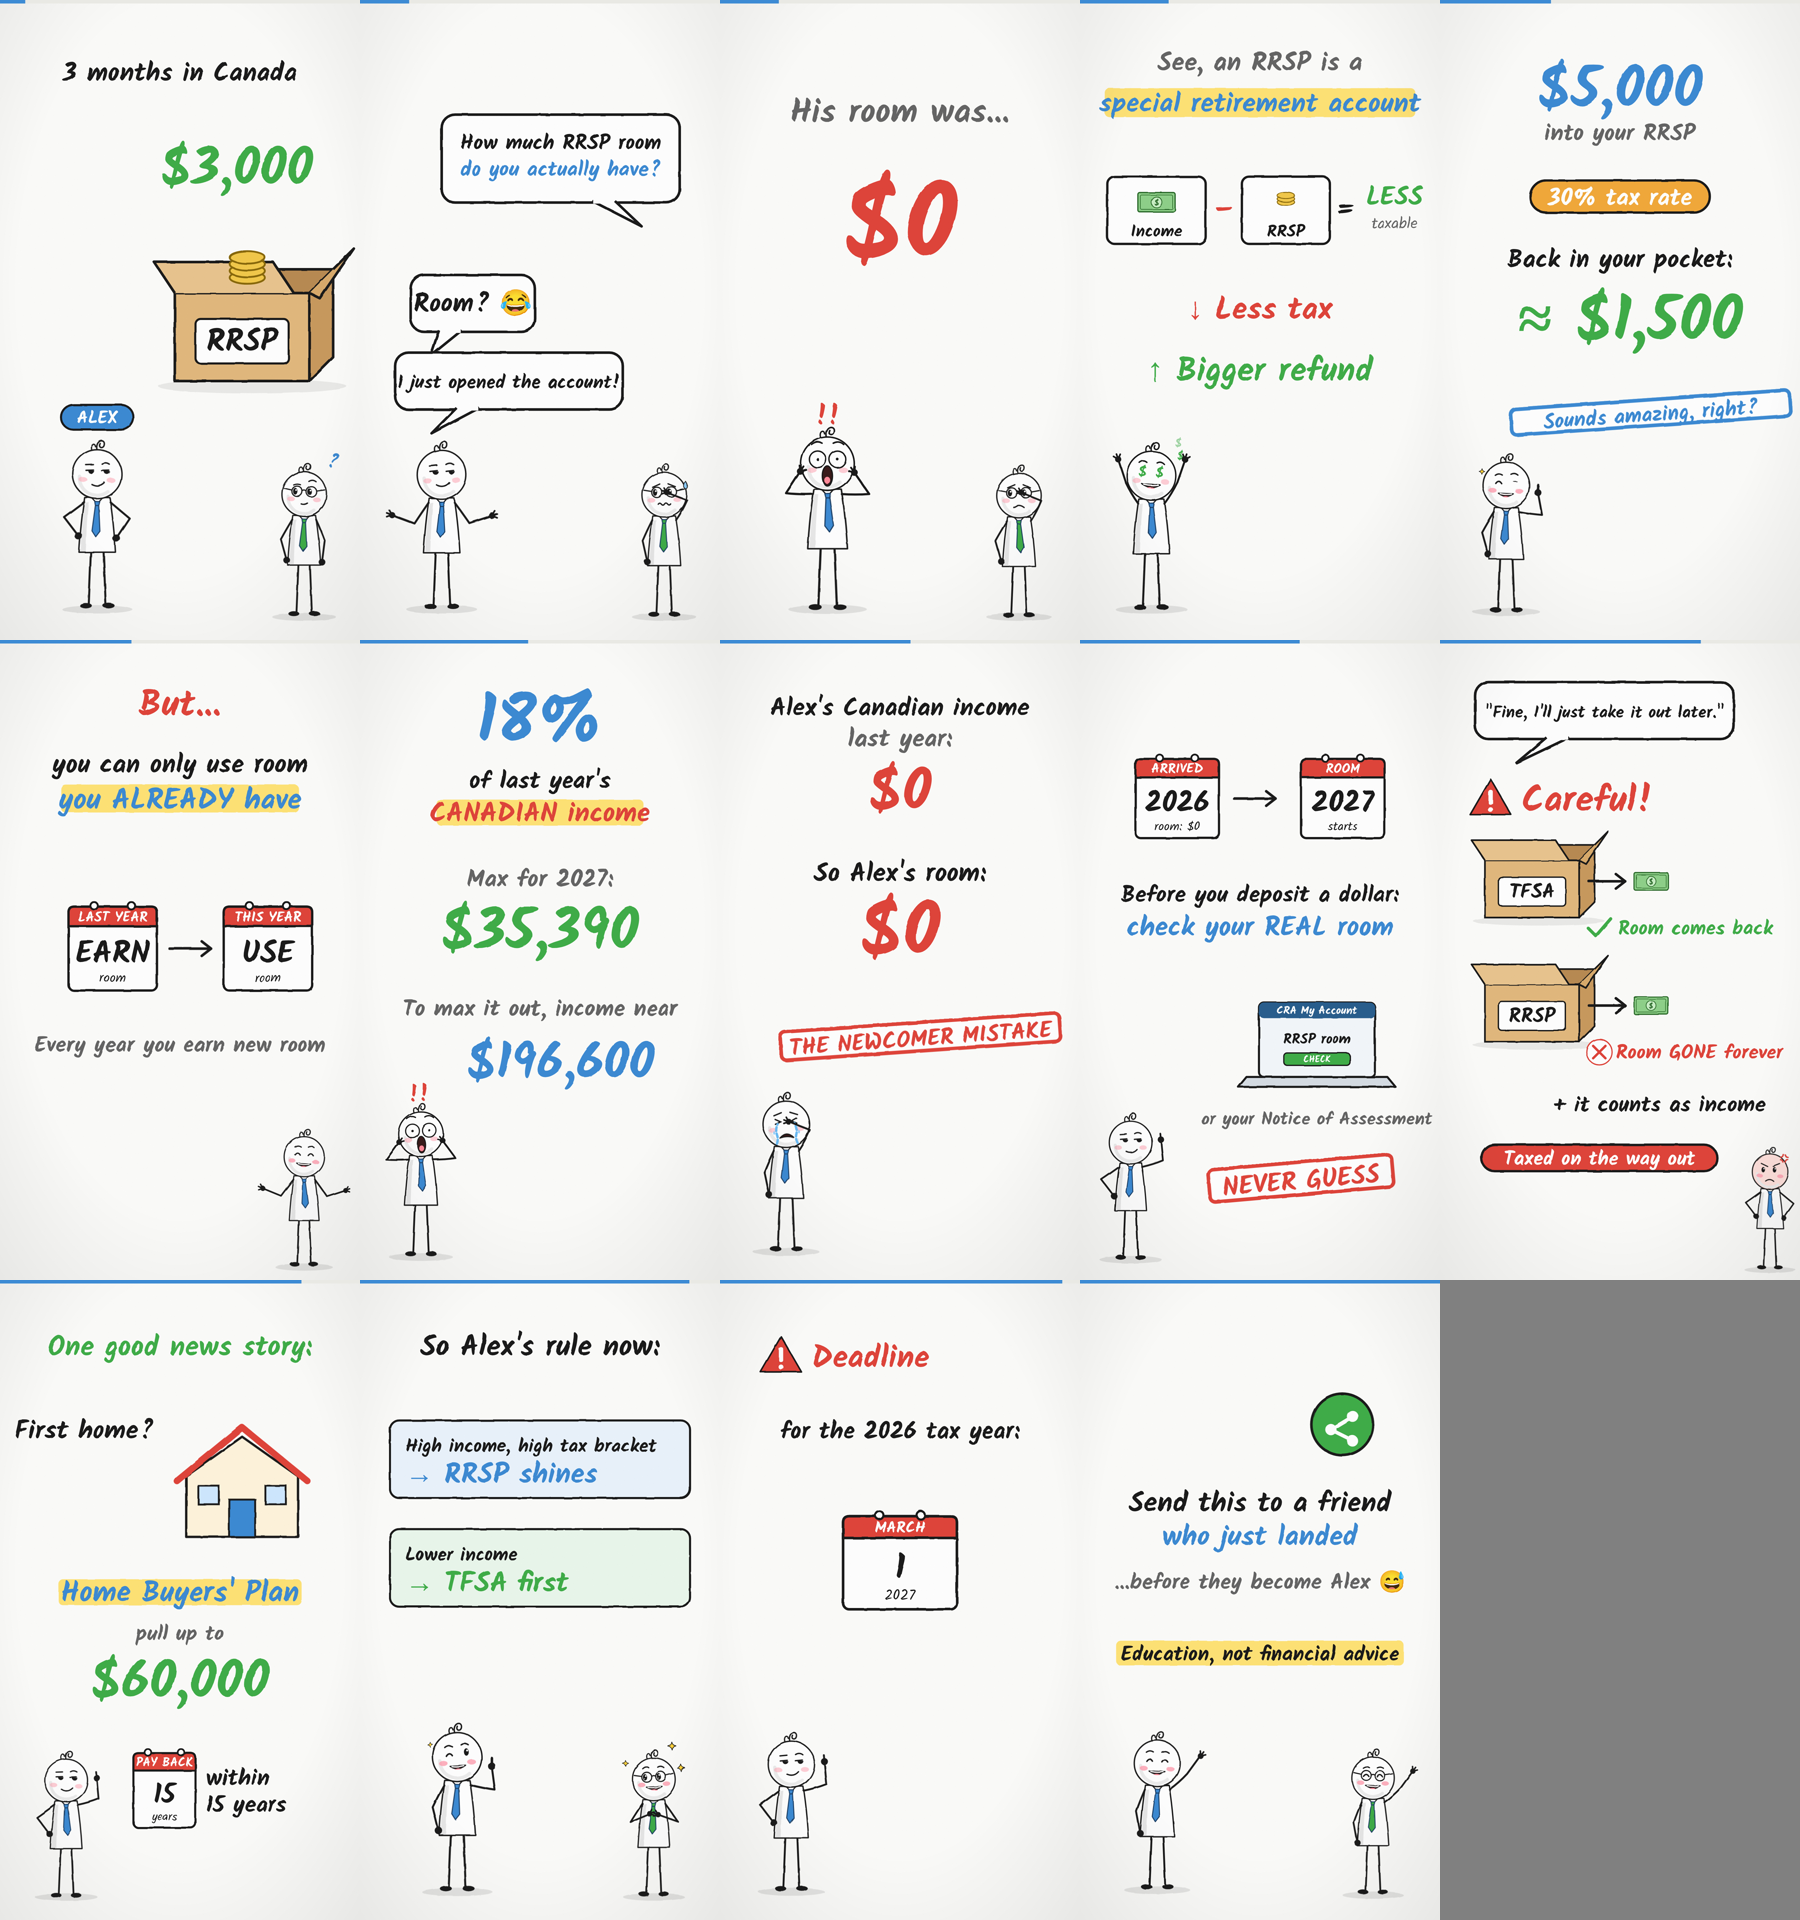
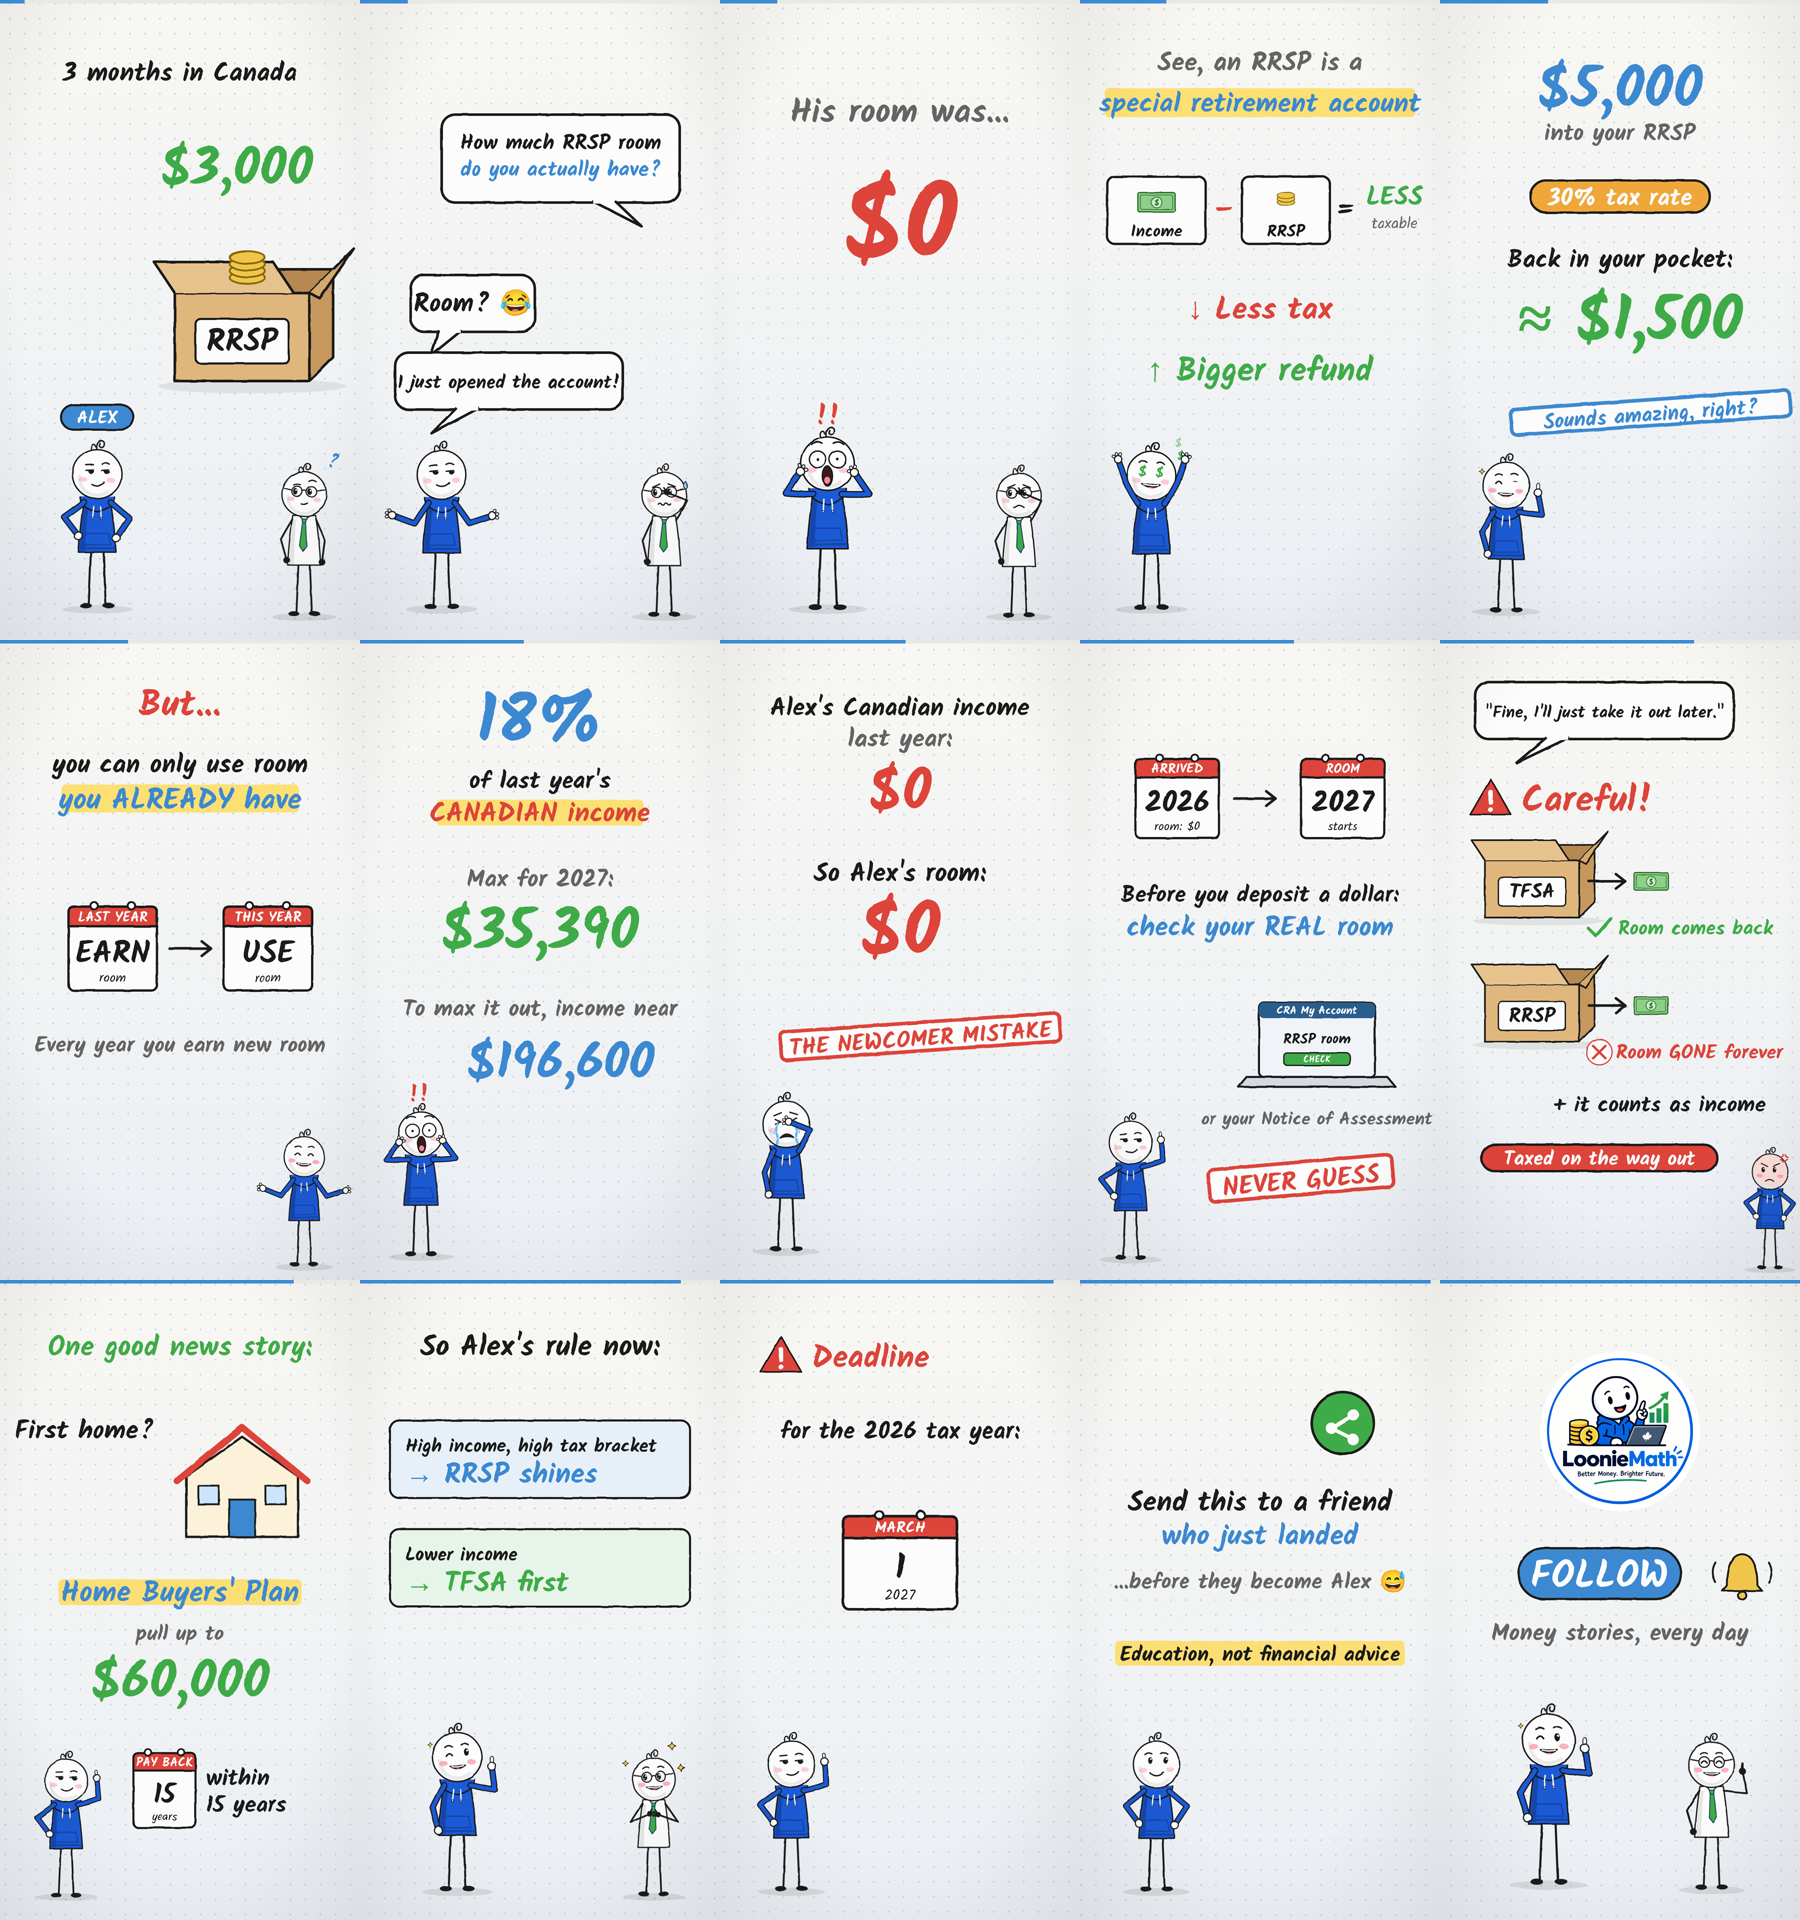
Alex mascot in LoonieMath hoodie with white mitten hands
Characters without a tie now wear the blue hoodie (sleeves, hood,
drawstrings, pocket); tie wearers keep the shirt. Watermark is
opt-in (CFG.watermark); dotted background is the default. Preview
images for approval.

Claude-Session: https://claude.ai/code/session_01NsNJRSiAvVePoKedNUhfTa

diff --git a/dollardesi-template/engine.html b/dollardesi-template/engine.html
@@ -34,6 +34,7 @@ text{font-family:K;}
 </svg>
 <script>
 const AMP = window.AMP || [];
+const HB = '#1e5bd8', HB2 = '#1747ad';
 const INK = '#1b1b1b', BLUE = '#3d8bd4', RED = '#e0443b', GREEN = '#3fae49';
 
 // ---------- helpers ----------
@@ -109,7 +110,7 @@ const HP = { // hand targets [x, y, handShape], character space (feet = 0,0)
 const LOOK = { c: [0, 0], r: [7, 0], l: [-7, 0], u: [0, -6], ur: [6, -5], ul: [-6, -5], d: [0, 5], dl: [-6, 4], dr: [6, 4] };
 let charId = 0;
 const character = (o) => `<g class="char" id="c${charId++}" data-x="${o.x}" data-y="${o.y}" data-s="${o.s || 1}" data-flip="${o.flip ? -1 : 1}"
-  data-pose='${JSON.stringify(o.pose)}' data-expr='${JSON.stringify(o.expr)}' data-act='${JSON.stringify(o.act || [])}' data-look='${JSON.stringify(o.look || [[0, 'c']])}' data-tie="${o.tie || BLUE}" data-acc="${o.acc || ''}" data-from="${o.from ?? -1}"></g>`;
+  data-pose='${JSON.stringify(o.pose)}' data-expr='${JSON.stringify(o.expr)}' data-act='${JSON.stringify(o.act || [])}' data-look='${JSON.stringify(o.look || [[0, 'c']])}' data-tie="${o.tie || BLUE}" data-outfit="${o.outfit || (o.tie ? 'shirt' : 'hoodie')}" data-acc="${o.acc || ''}" data-from="${o.from ?? -1}"></g>`;
 
 function ik(sx, sy, hx, hy, side) {
   let dx = hx - sx, dy = hy - sy, d = Math.hypot(dx, dy); const mx = L1 + L2 - 1;
@@ -120,13 +121,14 @@ function ik(sx, sy, hx, hy, side) {
   const e = side * e1[0] + .35 * e1[1] > side * e2[0] + .35 * e2[1] ? e1 : e2;
   return { ex: e[0], ey: e[1], hx, hy };
 }
-function hand(x, y, ux, uy, shape) {
+function hand(x, y, ux, uy, shape, white) {
+  const fing = (x2, y2, w) => white ? `<path d="M${x},${y} L${x2},${y2}" stroke="${INK}" stroke-width="${w + 6}" stroke-linecap="round"/><path d="M${x},${y} L${x2},${y2}" stroke="#fff" stroke-width="${w}" stroke-linecap="round"/>` : `<path d="M${x},${y} L${x2},${y2}" stroke="${INK}" stroke-width="${w}" stroke-linecap="round"/>`;
   const r = (a, l) => { const c = Math.cos(a), s = Math.sin(a); return [x + (ux * c - uy * s) * l, y + (ux * s + uy * c) * l]; };
   let h = '';
-  if (shape === 'point') { const [fx, fy] = r(0, 24); h += `<path d="M${x},${y} L${fx},${fy}" stroke="${INK}" stroke-width="7" stroke-linecap="round"/>`; }
-  if (shape === 'thumb') h += `<path d="M${x},${y} L${x},${y - 28}" stroke="${INK}" stroke-width="10" stroke-linecap="round"/>`;
-  if (shape === 'open') for (const a of [-.7, 0, .7]) { const [fx, fy] = r(a, 19); h += `<path d="M${x},${y} L${fx},${fy}" stroke="${INK}" stroke-width="6" stroke-linecap="round"/>`; }
-  return h + `<circle cx="${x}" cy="${y}" r="${shape === 'open' ? 11 : 13}" fill="${INK}"/>`;
+  if (shape === 'point') { const [fx, fy] = r(0, 26); h += fing(fx, fy, 7); }
+  if (shape === 'thumb') h += fing(x, y - 28, 10);
+  if (shape === 'open') for (const a of [-.7, 0, .7]) { const [fx, fy] = r(a, 20); h += fing(fx, fy, 6); }
+  return h + (white ? `<circle cx="${x}" cy="${y}" r="${shape === 'open' ? 13 : 14}" fill="#fff" stroke="${INK}" stroke-width="4"/>` : `<circle cx="${x}" cy="${y}" r="${shape === 'open' ? 11 : 13}" fill="${INK}"/>`);
 }
 const star5 = (r, fill = '#ffd43b') => { let p = ''; for (let i = 0; i < 10; i++) { const a = -Math.PI / 2 + i * Math.PI / 5, rr = i % 2 ? r * .45 : r; p += (i ? 'L' : 'M') + (Math.cos(a) * rr).toFixed(1) + ',' + (Math.sin(a) * rr).toFixed(1); } return `<path d="${p}Z" fill="${fill}" stroke="${INK}" stroke-width="3" stroke-linejoin="round"/>`; };
 const spark4 = (r) => `<path d="M0,${-r} Q2,-2 ${r},0 Q2,2 0,${r} Q-2,2 ${-r},0 Q-2,-2 0,${-r}Z" fill="#ffd43b" stroke="${INK}" stroke-width="2.5"/>`;
@@ -234,7 +236,9 @@ function drawChar(c, t, amp) {
     const sx = side * SHX, sy = SHY;
     const r = ik(sx, sy, hx, hy, side);
     let ux = r.hx - r.ex, uy = r.hy - r.ey; const ul = Math.hypot(ux, uy) || 1; ux /= ul; uy /= ul;
-    arms += `<path d="M${sx},${sy} Q${(sx + r.ex) / 2 + side * 3},${(sy + r.ey) / 2 + 3} ${r.ex},${r.ey} L${r.hx},${r.hy}" stroke="${INK}" stroke-width="7" fill="none" stroke-linecap="round" stroke-linejoin="round"/>` + hand(r.hx, r.hy, ux, uy, (k > .5 ? b : a)[2]);
+    const armD = `M${sx},${sy} Q${(sx + r.ex) / 2 + side * 3},${(sy + r.ey) / 2 + 3} ${r.ex},${r.ey} L${r.hx},${r.hy}`, HOOD = d.outfit === 'hoodie';
+    arms += (HOOD ? `<path d="${armD}" stroke="${INK}" stroke-width="22" fill="none" stroke-linecap="round" stroke-linejoin="round"/><path d="${armD}" stroke="${HB}" stroke-width="14" fill="none" stroke-linecap="round" stroke-linejoin="round"/>`
+      : `<path d="${armD}" stroke="${INK}" stroke-width="7" fill="none" stroke-linecap="round" stroke-linejoin="round"/>`) + hand(r.hx, r.hy, ux, uy, (k > .5 ? b : a)[2], HOOD);
   }
   const blink = ((t + +d.x * .01) % 3.3) < .11 ? .12 : 1;
   const lk = LOOK[lookup(P.look, t).cur[1]] || [0, 0];
@@ -246,10 +250,15 @@ function drawChar(c, t, amp) {
   c.innerHTML = `<ellipse cx="0" cy="2" rx="${125 * shadowS}" ry="${15 * shadowS}" fill="#000" opacity=".09"/>${lines}
    <g transform="translate(0,${-jy}) rotate(${rot}) scale(${sqx},${sqy})">
     ${legs}
-    <path d="M-44,-388 Q-58,-300 -64,-196 L64,-196 Q58,-300 44,-388 Z" fill="#fff" stroke="${INK}" stroke-width="5" stroke-linejoin="round"/>
+${d.outfit === 'hoodie' ? `    <path d="M-44,-388 Q-60,-300 -66,-196 L66,-196 Q60,-300 44,-388 Z" fill="${HB}" stroke="${INK}" stroke-width="5" stroke-linejoin="round"/>
+    <path d="M-42,-372 Q-56,-290 -60,-202 L-42,-202 Q-40,-300 -30,-374 Z" fill="${HB2}"/>
+    <path d="M-64,-210 L64,-210" stroke="${HB2}" stroke-width="7"/>
+    <path d="M-40,-262 L40,-262 L48,-222 L-48,-222 Z" fill="none" stroke="${HB2}" stroke-width="5" stroke-linejoin="round"/>
+    <path d="M-60,-392 Q-62,-352 0,-338 Q62,-352 60,-392" fill="${HB}" stroke="${INK}" stroke-width="5" stroke-linejoin="round"/>
+    <g transform="rotate(${tie * .6},0,-360)"><path d="M-12,-356 L-15,-318 M12,-356 L15,-318" stroke="#fff" stroke-width="4.5" stroke-linecap="round"/><circle cx="-15" cy="-316" r="3.5" fill="#fff" stroke="${INK}" stroke-width="2"/><circle cx="15" cy="-316" r="3.5" fill="#fff" stroke="${INK}" stroke-width="2"/></g>` : `    <path d="M-44,-388 Q-58,-300 -64,-196 L64,-196 Q58,-300 44,-388 Z" fill="#fff" stroke="${INK}" stroke-width="5" stroke-linejoin="round"/>
     <path d="M-42,-370 Q-54,-290 -58,-200 L-40,-200 Q-38,-300 -30,-372 Z" fill="#e8e8e8"/>
     <path d="M-20,-388 L0,-366 L20,-388" fill="none" stroke="${INK}" stroke-width="4" stroke-linejoin="round"/>
-    <g transform="rotate(${tie},0,-372)"><path d="M-9,-374 L9,-374 L6,-360 L-6,-360 Z M-6,-360 L-14,-270 L0,-250 L14,-270 L6,-360 Z" fill="${d.tie}" stroke="#1d3f66" stroke-width="3.5" stroke-linejoin="round"/></g>
+    <g transform="rotate(${tie},0,-372)"><path d="M-9,-374 L9,-374 L6,-360 L-6,-360 Z M-6,-360 L-14,-270 L0,-250 L14,-270 L6,-360 Z" fill="${d.tie}" stroke="#1d3f66" stroke-width="3.5" stroke-linejoin="round"/></g>`}
     <g transform="translate(0,${-470 + nod}) rotate(${hrot}) scale(${pop})">
       <path d="M-4,-84 C-14,-122 26,-128 20,-102 C16,-88 -2,-94 6,-108" stroke="${INK}" stroke-width="5" fill="none" stroke-linecap="round"/>
       <path d="M-22,-82 C-30,-104 -12,-112 -10,-96" stroke="${INK}" stroke-width="4.5" fill="none" stroke-linecap="round"/>
@@ -349,7 +358,7 @@ const BG = {
     <g filter="url(#bgBlur)" opacity=".55"><circle class="blob" data-k="0" cx="120" cy="230" r="210" fill="#bcd8f5"/><circle class="blob" data-k="1" cx="640" cy="620" r="230" fill="#c9ecd2"/><circle class="blob" data-k="2" cx="200" cy="1120" r="220" fill="#ffe2b8"/></g>
     <rect class="bgDrift" x="-60" y="-60" width="840" height="1400" fill="url(#bgDots)" opacity=".7"/>`,
 };
-function bgInit() { document.getElementById('bg').innerHTML = (BG[CFG.bg || 'grid'] || BG.grid)(); }
+function bgInit() { document.getElementById('bg').innerHTML = (BG[CFG.bg || 'dots'] || BG.dots)(); }
 function bgRender(t) {
   for (const el of document.querySelectorAll('#bg .bgDrift')) el.setAttribute('transform', `translate(${(t * 4) % 30},${(t * 6) % 30})`);
   for (const el of document.querySelectorAll('#bg .blob')) { const k = +el.dataset.k; el.setAttribute('transform', `translate(${Math.sin(t * .15 + k * 2) * 60},${Math.cos(t * .12 + k) * 70})`); }
@@ -366,7 +375,7 @@ window.render = function (t) {
   document.getElementById('prog').setAttribute('width', 720 * clamp(t / VEND));
   const LT = LOGO_T, el = document.getElementById('endlogo');
   const BRAND = CFG.brand !== false;   // brand:false = no logo watermark, no logo ending
-  document.getElementById('wm').style.display = !BRAND || t >= END_S ? 'none' : '';
+  document.getElementById('wm').style.display = !BRAND || !CFG.watermark || t >= END_S ? 'none' : '';
   el.style.display = BRAND && t >= LT ? '' : 'none';
   if (t >= LT) { const p = clamp((t - LT) / .55); el.setAttribute('transform', `translate(360,${300 + Math.sin(t * 2.4) * 4}) scale(${eBack(p)}) rotate(${(1 - eOut(p)) * -25})`); }
   scenes.forEach((sc, i) => {

diff --git a/dollardesi-template/projects/rrsp-en/scenes.js b/dollardesi-template/projects/rrsp-en/scenes.js
@@ -2,7 +2,7 @@
 const CFG = {
   brand: true,
   logo: 'looniemath-logo.png',
-  bg: 'grid',
+  bg: 'dots',
   voiceEnd: 127.48,
   endScene: 124.23,
   tail: 1.9,
